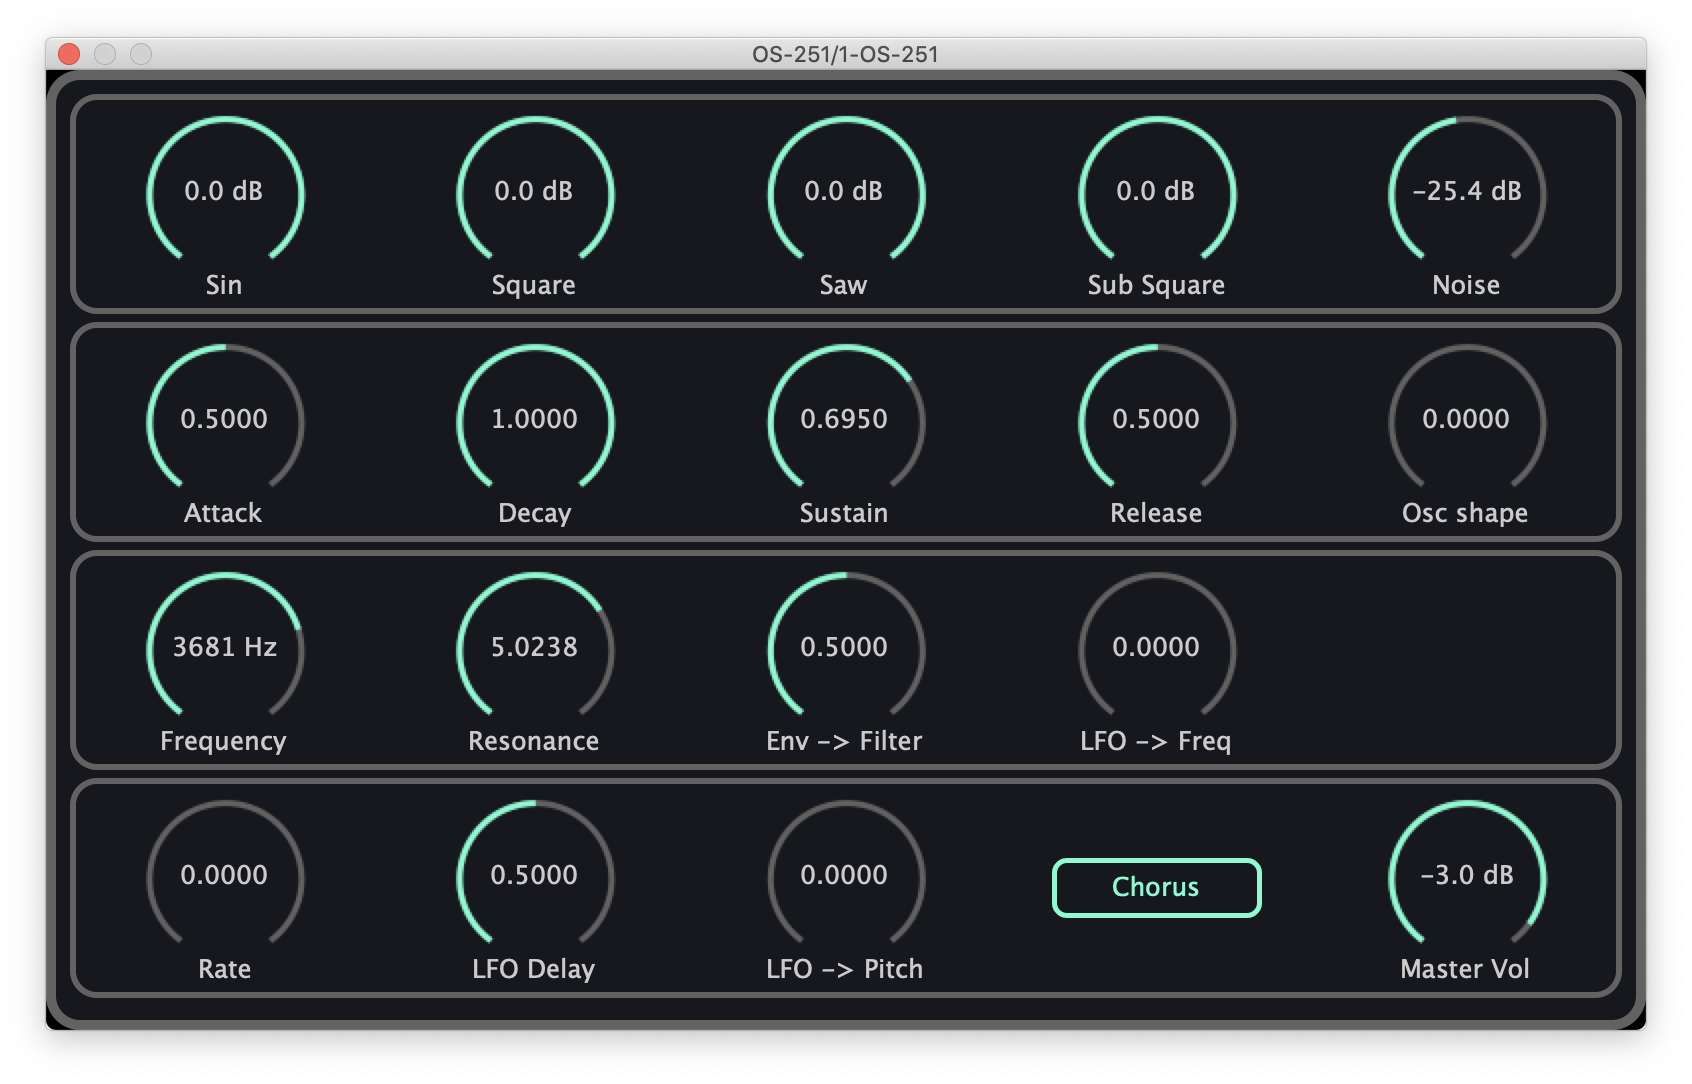
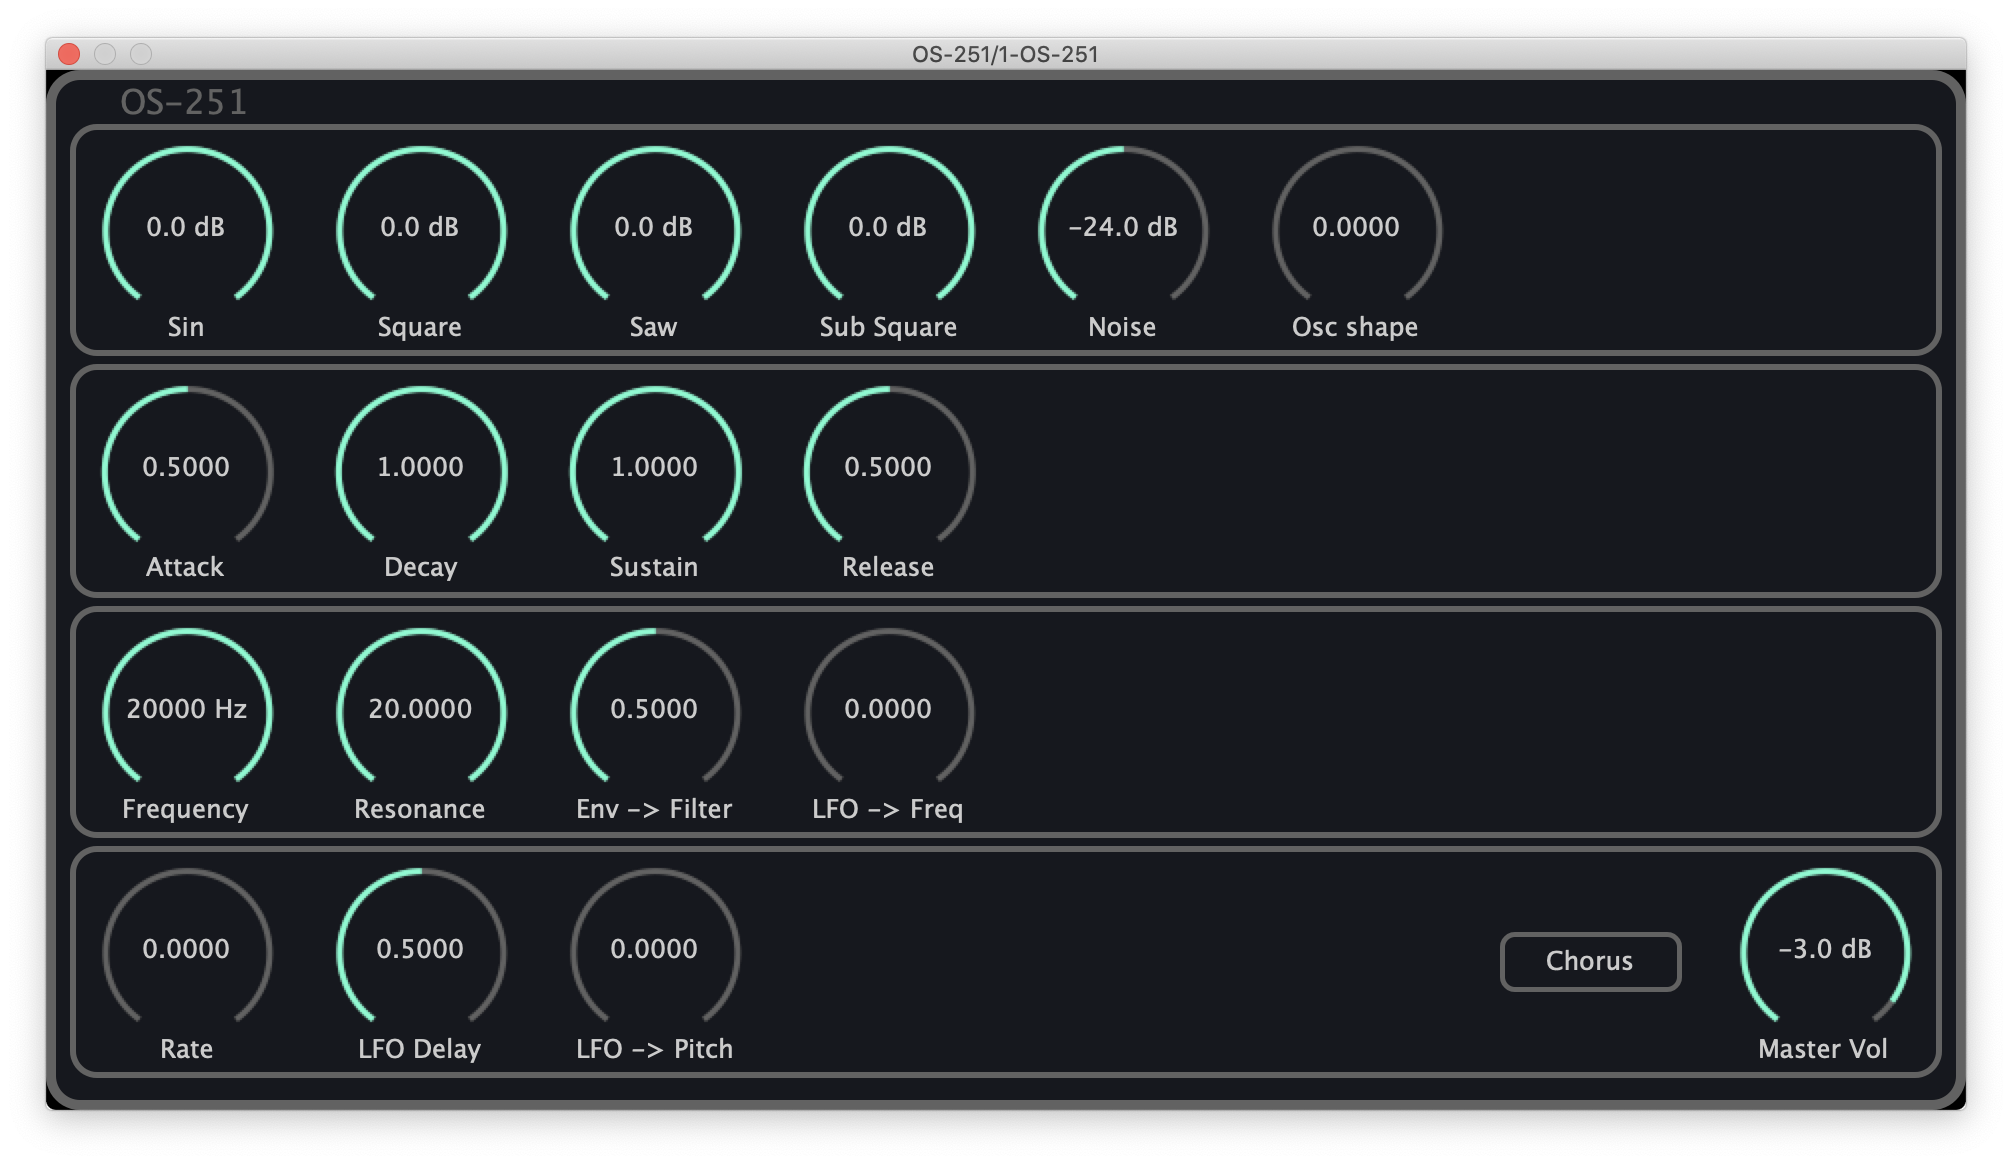
Update UI layout

Changed region(s): [[0.0, 0.0304, 0.9835, 0.9742]]

diff --git a/src/jsui/src/App.js b/src/jsui/src/App.js
@@ -91,6 +91,13 @@ class App extends Component {
 
     return (
       <View {...styles.container}>
+        <View {...styles.menu}>
+          <View {...styles.logo}>
+            <Text {...styles.logo_text}>
+              OS-251
+            </Text>
+          </View>
+        </View>
         <View {...styles.content}>
           <View {...styles.param_row}>
             <SliderModule
@@ -113,6 +120,12 @@ class App extends Component {
               paramId="noiseGain"
               paramLabel="Noise"
             />
+            <SliderModule
+              paramId="shape"
+              paramLabel="Osc shape"
+            />
+            <DummyModule />
+            <DummyModule />
           </View>
           <View {...styles.param_row}>
             <SliderModule
@@ -131,10 +144,10 @@ class App extends Component {
               paramId="release"
               paramLabel="Release"
             />
-            <SliderModule
-              paramId="shape"
-              paramLabel="Osc shape"
-            />
+            <DummyModule />
+            <DummyModule />
+            <DummyModule />
+            <DummyModule />
           </View>
           <View {...styles.param_row}>
             <SliderModule
@@ -154,6 +167,9 @@ class App extends Component {
               paramLabel="LFO -> Freq"
             />
             <DummyModule />
+            <DummyModule />
+            <DummyModule />
+            <DummyModule />
           </View>
           <View {...styles.param_row}>
             <SliderModule
@@ -168,6 +184,9 @@ class App extends Component {
               paramId="lfoPitch"
               paramLabel="LFO -> Pitch"
             />
+            <DummyModule />
+            <DummyModule />
+            <DummyModule />
             <ButtonModule
               paramId="chorusOn"
               paramLabel="Chorus"
@@ -189,7 +208,9 @@ const styles = {
   container: {
     width: '100%',
     height: '100%',
+    flexDirection: 'column',
     backgroundColor: 'ff17191f',
+    // backgroundColor: 'ff00ff00',
     justifyContent: 'center',
     alignItems: 'center',
     borderRadius: 12,
@@ -198,18 +219,53 @@ const styles = {
     borderWidth: 10,
   },
   content: {
+    height: '95%',
+    width: '100%',
     flex: 1.0,
     flexDirection: 'column',
     justifyContent: 'space-around',
     alignItems: 'flex-start',
     padding: 12.0,
-    maxWidth: 800,
-    aspectRatio: 400.0 / 240.0,
+    // maxWidth: 800,
+    // aspectRatio: 800.0 / 480.0,
+  },
+  menu: {
+    // height: 24,
+    width: '100%',
+    flex: 1.0,
+    flexDirection: 'column',
+    justifyContent: 'space-around',
+    // backgroundColor: 'ff00ff00',
+    // alignItems: 'flex-start',
+    // marginTop: 16,
+    marginBottom: -16,
+    paddingLeft: 12.0,
+    paddingRight: 12.0,
+    // maxWidth: 800,
+    // aspectRatio: 800.0 / 120.0,
+    borderWidth: 4,
+    // borderColor: 'ffff0000',
+  },
+  logo: {
+    marginLeft: 25,
+    // height: 60,
+    // flex: 1.0,
+    // flexDirection: 'column',
+    // justifyContent: 'space-around',
+    // backgroundColor: 'ff00ff00',
+    // alignItems: 'flex-start',
+    // marginTop: 16,
+    // padding: 12.0,
+    // maxWidth: 800,
+    // aspectRatio: 800.0 / 120.0,
+    // borderWidth: 4,
+    // borderColor: 'ffff0000',
   },
   param_row: {
     flex: 1.0,
     width: '100%',
     flexDirection: 'row',
+    // backgroundColor: 'ff00ff00',
     borderRadius: 12,
     borderStyle: 'solid',
     borderColor: 'ff626262',
@@ -225,8 +281,8 @@ const styles = {
     alignItems: 'center',
     marginTop: 4,
     marginBottom: 4,
-    marginLeft: 12,
-    marginRight: 12,
+    marginLeft: 2,
+    marginRight: 2,
   },
   knob: {
     minWidth: 20.0,
@@ -243,6 +299,13 @@ const styles = {
     justifyContent: 'center',
     alignItems: 'center',
     interceptClickEvents: false,
+  },
+  logo_text: {
+    // marginTop: -6, // ??
+    fontSize: 20.0,
+    // minHeight: 18,
+    color: 'ff626262',
+    // backgroundColor: 'ffff0000',
   },
   param_text: {
     fontSize: 15.0,

diff --git a/src/PluginProcessor.cpp b/src/PluginProcessor.cpp
@@ -330,7 +330,7 @@ juce::AudioProcessorEditor* Os251AudioProcessor::createEditor()
 
     auto* editor = new blueprint::BlueprintGenericEditor (*this, bundle);
 
-    editor->setSize (800, 480);
+    editor->setSize (960, 480 + 40);
 
     return editor;
 }

diff --git a/README.md b/README.md
@@ -17,7 +17,7 @@ This plugin is currently under development.
 - [ ] Add "About" to UI
 - [ ] One knob HPF
 - [ ] LFO -> Shape parameter
-- [ ] Master pitch setting
+- [ ] Master pitch setting (3 knobs)
 - [ ] Pitchbend width setting
 - [ ] Presets
 - [ ] (Optional) Make LFO sync with the host's tempo.
